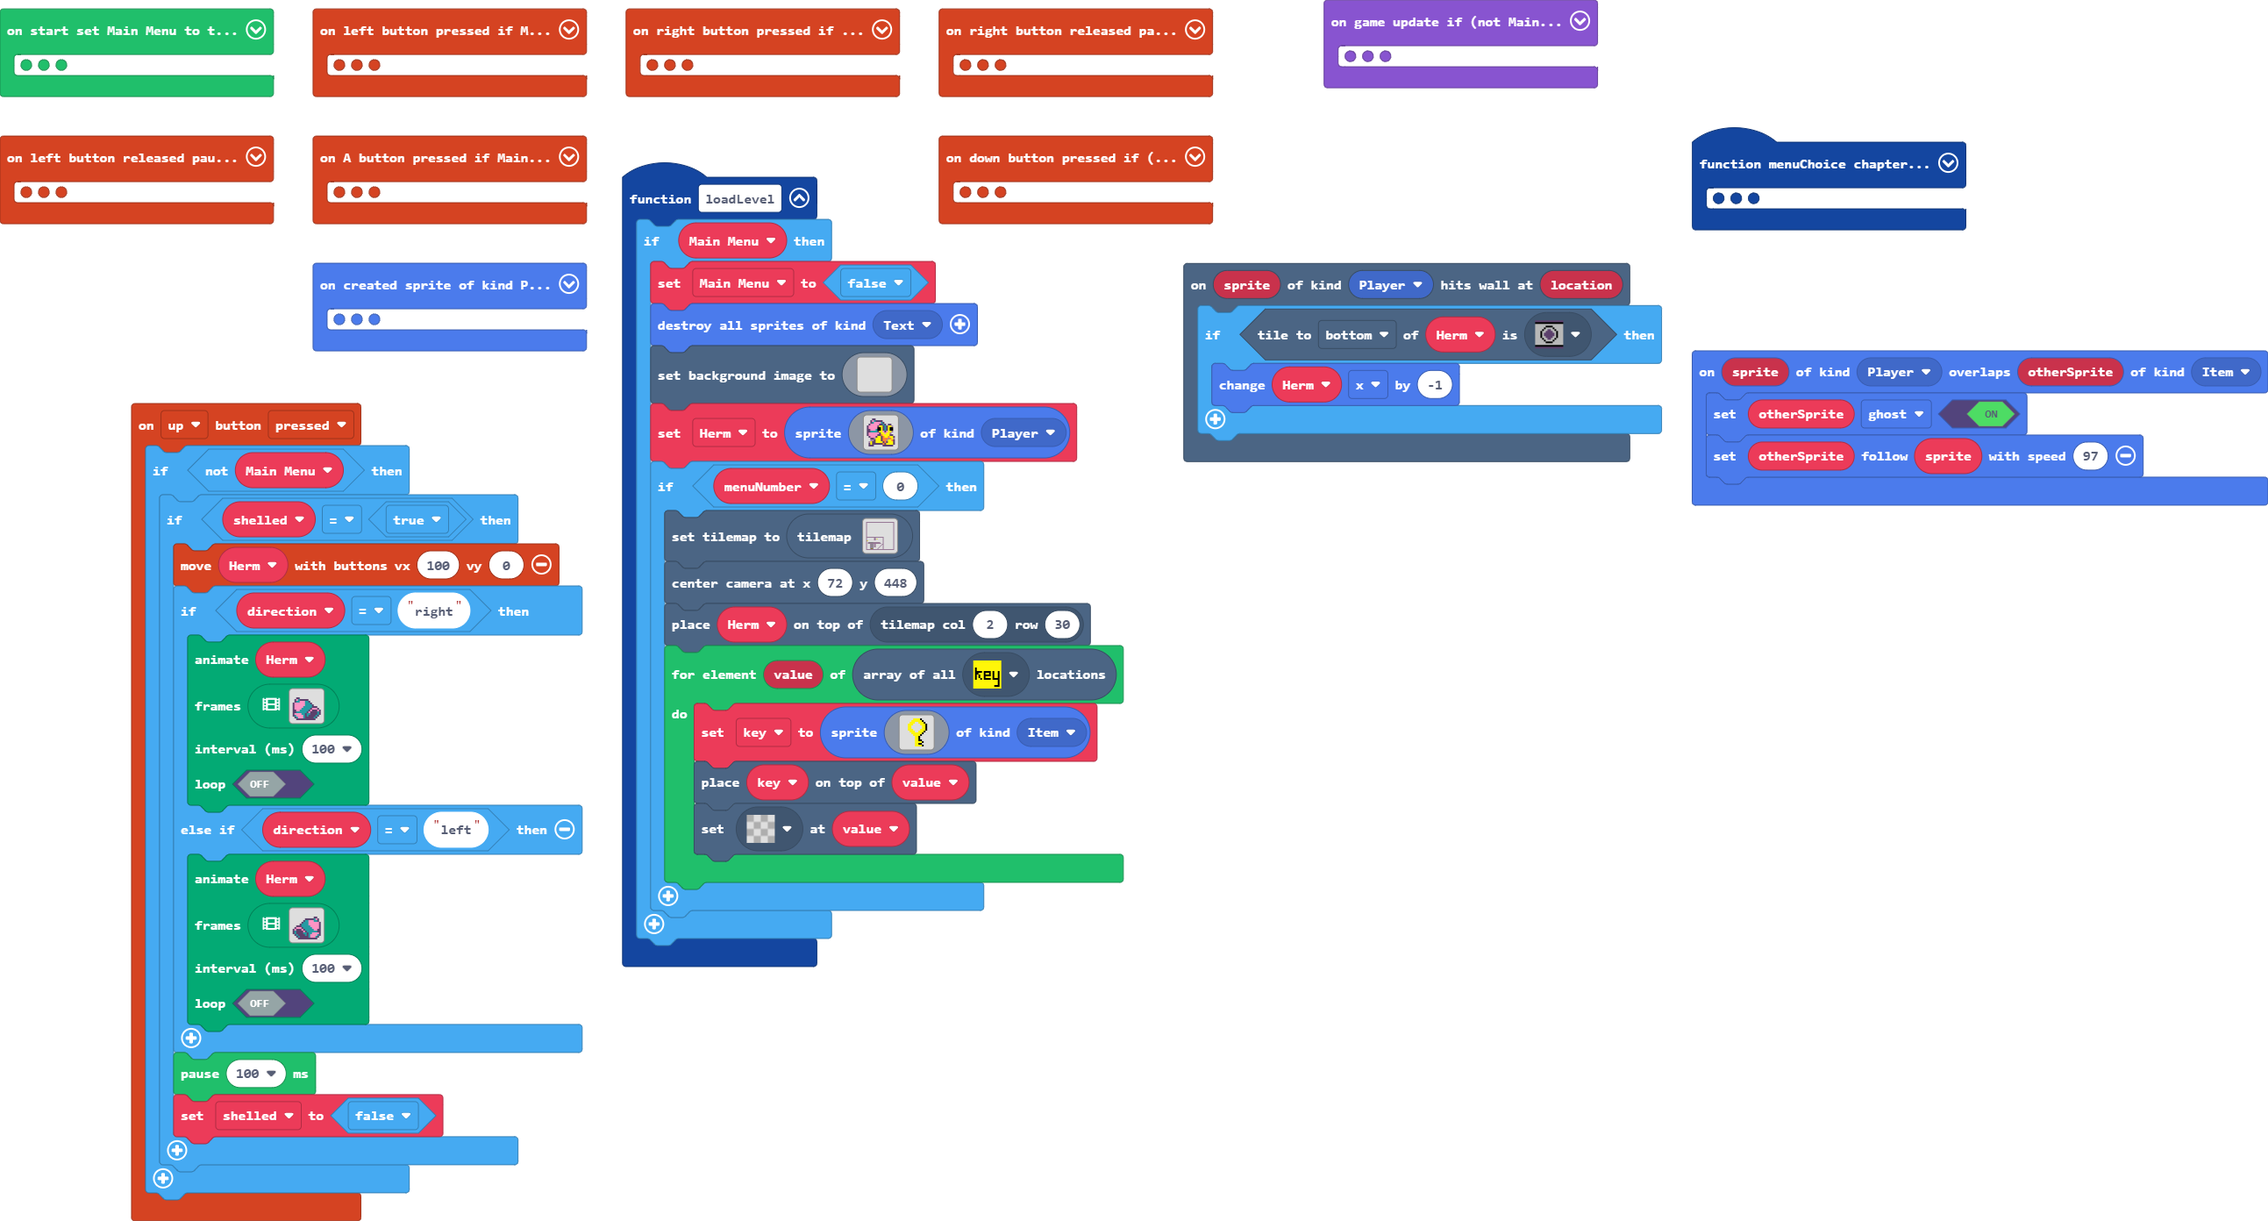
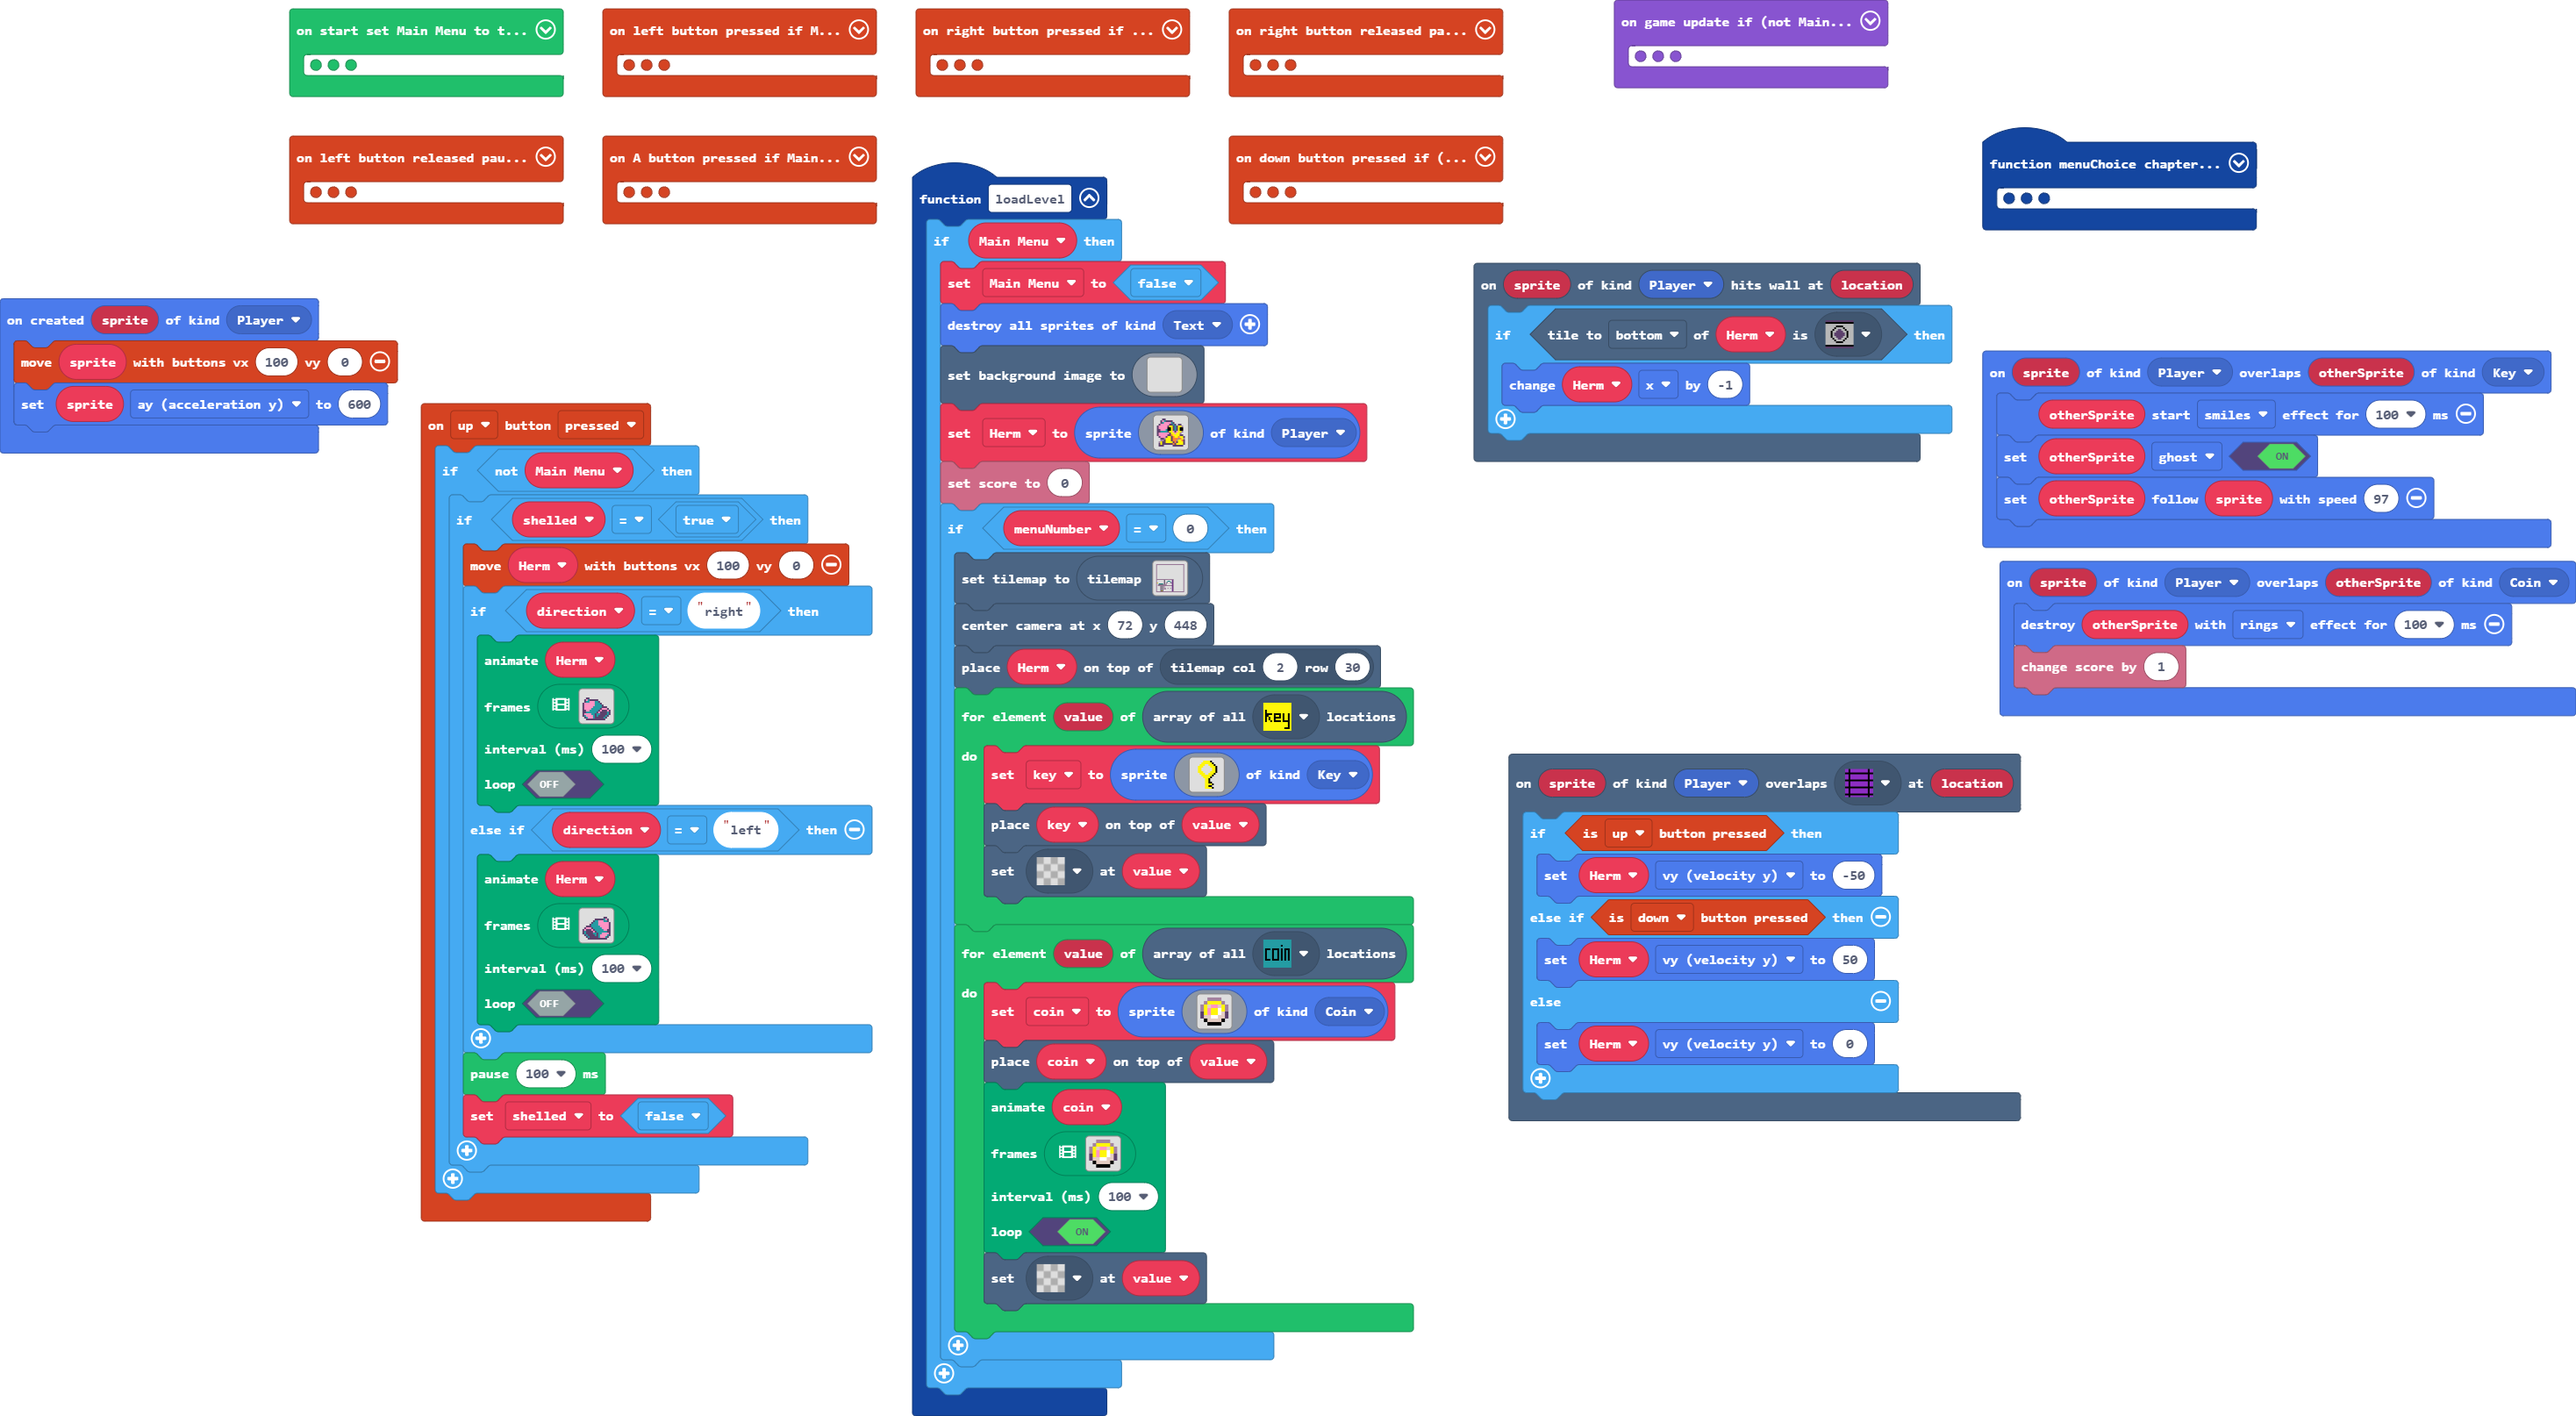
Update main.blocks, main.ts, tilemap.g.jres, tilemap.g.ts

diff --git a/tilemap.g.ts b/tilemap.g.ts
@@ -16,6 +16,8 @@ namespace myTiles {
     export const tile4 = image.ofBuffer(hex``);
     //% fixedInstance jres blockIdentity=images._tile
     export const tile2 = image.ofBuffer(hex``);
+    //% fixedInstance jres blockIdentity=images._tile
+    export const tile8 = image.ofBuffer(hex``);
 
     helpers._registerFactory("tilemap", function(name: string) {
         switch(helpers.stringTrim(name)) {
@@ -77,7 +79,7 @@ namespace myTiles {
 . . . . . . . . . . . . . . . . 
 `, [myTiles.transparency16], TileScale.Sixteen);
             case "level2":
-            case "level2":return tiles.createTilemap(hex`2000200001010101010101010101010101010101010101010101010101010101010101010100000000000000000000000000000000000000000000000000000000000001010000000000000000000000000000000000000000000000000000000000000101000000000000000000000000000000000000000000000000000000000000010100000000000000000000000000000000000000000000000000000000000001010000000000000000000000000000000000000000000000000000000000000101000000000000000000000000000000000000000000000000000000000000010100000000000000000000000000000000000000000000000000000000000001010000000000000000000000000000000000000000000000000000000000000101000000000000000000000000000000000000000000000000000000000000010100000000000000000000000000000000000000000000000000000000000001010000000000000000000000000000000000000000000000000000000000000101000000000000000000000000000000000000000000000000000000000000010100000000000000000000000000000000000000000000000000000000000001010000000000000000000000000000000000000000000000000000000000000101000000000000000000000000000000000000000000000000000000000000010100000000000000000000000000000000000000000000000000000000000001010101010101010101010101010101010101010100000000000000000000000101000000000000000001010000000000000000010000000000000000000000010100000000000000000101000300000000000001000000000000000000000001010000000000000000010100000000000000000100000000000000000000000101030000000000000000000000000000000000010000000000000000000000010100000000000000000000000000000000000001000000000000000000000001010001020202020201010101010101010000000100000000000000000000000101000101010101010101010101010101010000010000000000000000000000010100000000050005000101000000000000000101000000000000000000000001010000000004000400010100000000000001000100000000000000000000000101000000000400040001010000000000010000010000000000000000000000010100000000040004000101000000000100000001000000000000000000000001010000000004000400000000000001000000000100000000000000000000000101000000000603060000000000010000000000010000000000000000000000010101010101010101010101010101010101010101010101010101010101010101`, img`
+            case "level2":return tiles.createTilemap(hex`2000200001010101010101010101010101010101010101010101010101010101010101010100000000000000000000000000000000000000000000000000000000000001010000000000000000000000000000000000000000000000000000000000000101000000000000000000000000000000000000000000000000000000000000010100000000000000000000000000000000000000000000000000000000000001010000000000000000000000000000000000000000000000000000000000000101000000000000000000000000000000000000000000000000000000000000010100000000000000000000000000000000000000000000000000000000000001010000000000000000000000000000000000000000000000000000000000000101000000000000000000000000000000000000000000000000000000000000010100000000000000000000000000000000000000000000000000000000000001010000000000000000000000000000000000000000000000000000000000000101000000000000000000000000000000000000000000000000000000000000010100000000000000000000000000000000000000000000000000000000000001010000000000000000000000000000000000000000000000000000000000000101000000000000000000000000000000000000000000000000000000000000010100000000000000000000000000000000000000000000000000000000000001010101010101010101010101010101010101010100000000000000000000000101000000000000000005000000000000000008010000000000000000000000010100000000000000000400000007070700000801000000000000000000000001010000000000000000040000070000000700080100000000000000000000000101030000000000000004000101000000010108010000000000000000000000010100000707070707000600010000000000000801000000000000000000000001010001020202020201010101000000000000080100000000000000000000000101000101010101010101010101010101010108010000000000000000000000010100000000050005000100000000000000000801000000000000000000000001010000000004000400010000000000000000080100000000000000000000000101000000000400040001010000010000010008010000000000000000000000010100000000040004000101000000000000000801000000000000000000000001010000000004000400000000000000000000080100000000000000000000000101000000000603060000000000000000000008010000000000000000000000010101010101010101010101010101010101010101010101010101010101010101`, img`
 22222222222222222222222222222222
 2..............................2
 2..............................2
@@ -96,21 +98,21 @@ namespace myTiles {
 2..............................2
 2..............................2
 22222222222222222222...........2
-2........22........2...........2
-2........22........2...........2
+2..................2...........2
+2..................2...........2
+2..................2...........2
+2..........22...22.2...........2
+2..........2.......2...........2
+2.2222222222.......2...........2
+2.2222222222222222.2...........2
+2........2.........2...........2
+2........2.........2...........2
+2........22..2..2..2...........2
 2........22........2...........2
 2..................2...........2
 2..................2...........2
-2.22222222222222...2...........2
-2.222222222222222..2...........2
-2........22.......22...........2
-2........22......2.2...........2
-2........22.....2..2...........2
-2........22....2...2...........2
-2.............2....2...........2
-2............2.....2...........2
 22222222222222222222222222222222
-`, [myTiles.transparency16,myTiles.tile1,myTiles.tile2,myTiles.tile4,myTiles.tile5,myTiles.tile6,myTiles.tile7], TileScale.Sixteen);
+`, [myTiles.transparency16,myTiles.tile1,myTiles.tile2,myTiles.tile4,myTiles.tile5,myTiles.tile6,myTiles.tile7,myTiles.tile8,myTiles.tile3], TileScale.Sixteen);
         }
         return null;
     })
@@ -132,6 +134,8 @@ namespace myTiles {
             case "tile4":return tile4;
             case "myTile0":
             case "tile2":return tile2;
+            case "myTile6":
+            case "tile8":return tile8;
         }
         return null;
     })

diff --git a/main.ts b/main.ts
@@ -1,9 +1,15 @@
 namespace SpriteKind {
-    export const Item = SpriteKind.create()
+    export const Key = SpriteKind.create()
+    export const Coin = SpriteKind.create()
 }
-sprites.onOverlap(SpriteKind.Player, SpriteKind.Item, function (sprite, otherSprite) {
-    otherSprite.setFlag(SpriteFlag.Ghost, true)
-    otherSprite.follow(sprite, 97)
+scene.onOverlapTile(SpriteKind.Player, assets.tile`myTile1`, function (sprite, location) {
+    if (controller.up.isPressed()) {
+        Herm.vy = -50
+    } else if (controller.down.isPressed()) {
+        Herm.vy = 50
+    } else {
+        Herm.vy = 0
+    }
 })
 function menuChoice (chapter: number) {
     scene.setBackgroundImage(img`
@@ -385,6 +391,10 @@ controller.A.onEvent(ControllerButtonEvent.Pressed, function () {
         }
     }
 })
+sprites.onOverlap(SpriteKind.Player, SpriteKind.Coin, function (sprite, otherSprite) {
+    sprites.destroy(otherSprite, effects.rings, 100)
+    info.changeScoreBy(1)
+})
 controller.left.onEvent(ControllerButtonEvent.Released, function () {
     pause(50)
     if (!(Main_Menu)) {
@@ -392,10 +402,6 @@ controller.left.onEvent(ControllerButtonEvent.Released, function () {
             animation.stopAnimation(animation.AnimationTypes.All, Herm)
         }
     }
-})
-sprites.onCreated(SpriteKind.Player, function (sprite) {
-    controller.moveSprite(sprite, 100, 0)
-    sprite.ay = 600
 })
 controller.left.onEvent(ControllerButtonEvent.Pressed, function () {
     if (Main_Menu) {
@@ -630,6 +636,7 @@ function loadLevel () {
             . c 5 c c c c c c 4 c 5 5 5 5 c 
             . c c c . . . . . c c c c c c . 
             `, SpriteKind.Player)
+        info.setScore(0)
         if (menuNumber == 0) {
             tiles.setCurrentTilemap(tilemap`level2`)
             scene.centerCameraAt(72, 448)
@@ -652,13 +659,92 @@ function loadLevel () {
                     . . . . . . . 5 5 5 5 f . . . . 
                     . . . . . . . 5 5 f f . . . . . 
                     . . . . . . . 5 5 5 5 f . . . . 
-                    `, SpriteKind.Item)
+                    `, SpriteKind.Key)
                 tiles.placeOnTile(key, value)
+                tiles.setTileAt(value, assets.tile`transparency16`)
+            }
+            for (let value of tiles.getTilesByType(assets.tile`myTile6`)) {
+                coin = sprites.create(img`
+                    . . b b b b . . 
+                    . b 5 5 5 5 b . 
+                    b 5 d 3 3 d 5 b 
+                    b 5 3 5 5 1 5 b 
+                    c 5 3 5 5 1 d c 
+                    c d d 1 1 d d c 
+                    . f d d d d f . 
+                    . . f f f f . . 
+                    `, SpriteKind.Coin)
+                tiles.placeOnTile(coin, value)
+                animation.runImageAnimation(
+                coin,
+                [img`
+                    . . b b b b . . 
+                    . b 5 5 5 5 b . 
+                    b 5 d 3 3 d 5 b 
+                    b 5 3 5 5 1 5 b 
+                    c 5 3 5 5 1 d c 
+                    c d d 1 1 d d c 
+                    . f d d d d f . 
+                    . . f f f f . . 
+                    `,img`
+                    . . b b b . . . 
+                    . b 5 5 5 b . . 
+                    b 5 d 3 d 5 b . 
+                    b 5 3 5 1 5 b . 
+                    c 5 3 5 1 d c . 
+                    c 5 d 1 d d c . 
+                    . f d d d f . . 
+                    . . f f f . . . 
+                    `,img`
+                    . . . b b . . . 
+                    . . b 5 5 b . . 
+                    . b 5 d 1 5 b . 
+                    . b 5 3 1 5 b . 
+                    . c 5 3 1 d c . 
+                    . c 5 1 d d c . 
+                    . . f d d f . . 
+                    . . . f f . . . 
+                    `,img`
+                    . . . b b . . . 
+                    . . b 5 5 b . . 
+                    . . b 1 1 b . . 
+                    . . b 5 5 b . . 
+                    . . b d d b . . 
+                    . . c d d c . . 
+                    . . c 3 3 c . . 
+                    . . . f f . . . 
+                    `,img`
+                    . . . b b . . . 
+                    . . b 5 5 b . . 
+                    . b 5 1 d 5 b . 
+                    . b 5 1 3 5 b . 
+                    . c d 1 3 5 c . 
+                    . c d d 1 5 c . 
+                    . . f d d f . . 
+                    . . . f f . . . 
+                    `,img`
+                    . . . b b b . . 
+                    . . b 5 5 5 b . 
+                    . b 5 d 3 d 5 b 
+                    . b 5 1 5 3 5 b 
+                    . c d 1 5 3 5 c 
+                    . c d d 1 d 5 c 
+                    . . f d d d f . 
+                    . . . f f f . . 
+                    `],
+                100,
+                true
+                )
                 tiles.setTileAt(value, assets.tile`transparency16`)
             }
         }
     }
 }
+sprites.onOverlap(SpriteKind.Player, SpriteKind.Key, function (sprite, otherSprite) {
+    otherSprite.startEffect(effects.smiles, 100)
+    otherSprite.setFlag(SpriteFlag.Ghost, true)
+    otherSprite.follow(sprite, 97)
+})
 controller.right.onEvent(ControllerButtonEvent.Pressed, function () {
     if (Main_Menu) {
         if (!(menuNumber >= Chapter_List.length - 1)) {
@@ -983,10 +1069,15 @@ controller.down.onEvent(ControllerButtonEvent.Pressed, function () {
         }
     }
 })
+sprites.onCreated(SpriteKind.Player, function (sprite) {
+    controller.moveSprite(sprite, 100, 0)
+    sprite.ay = 600
+})
+let coin: Sprite = null
 let key: Sprite = null
-let Herm: Sprite = null
 let Chapter_Show: TextSprite = null
 let Chapter_List: string[] = []
+let Herm: Sprite = null
 let menuNumber = 0
 let direction = ""
 let shelled = false
